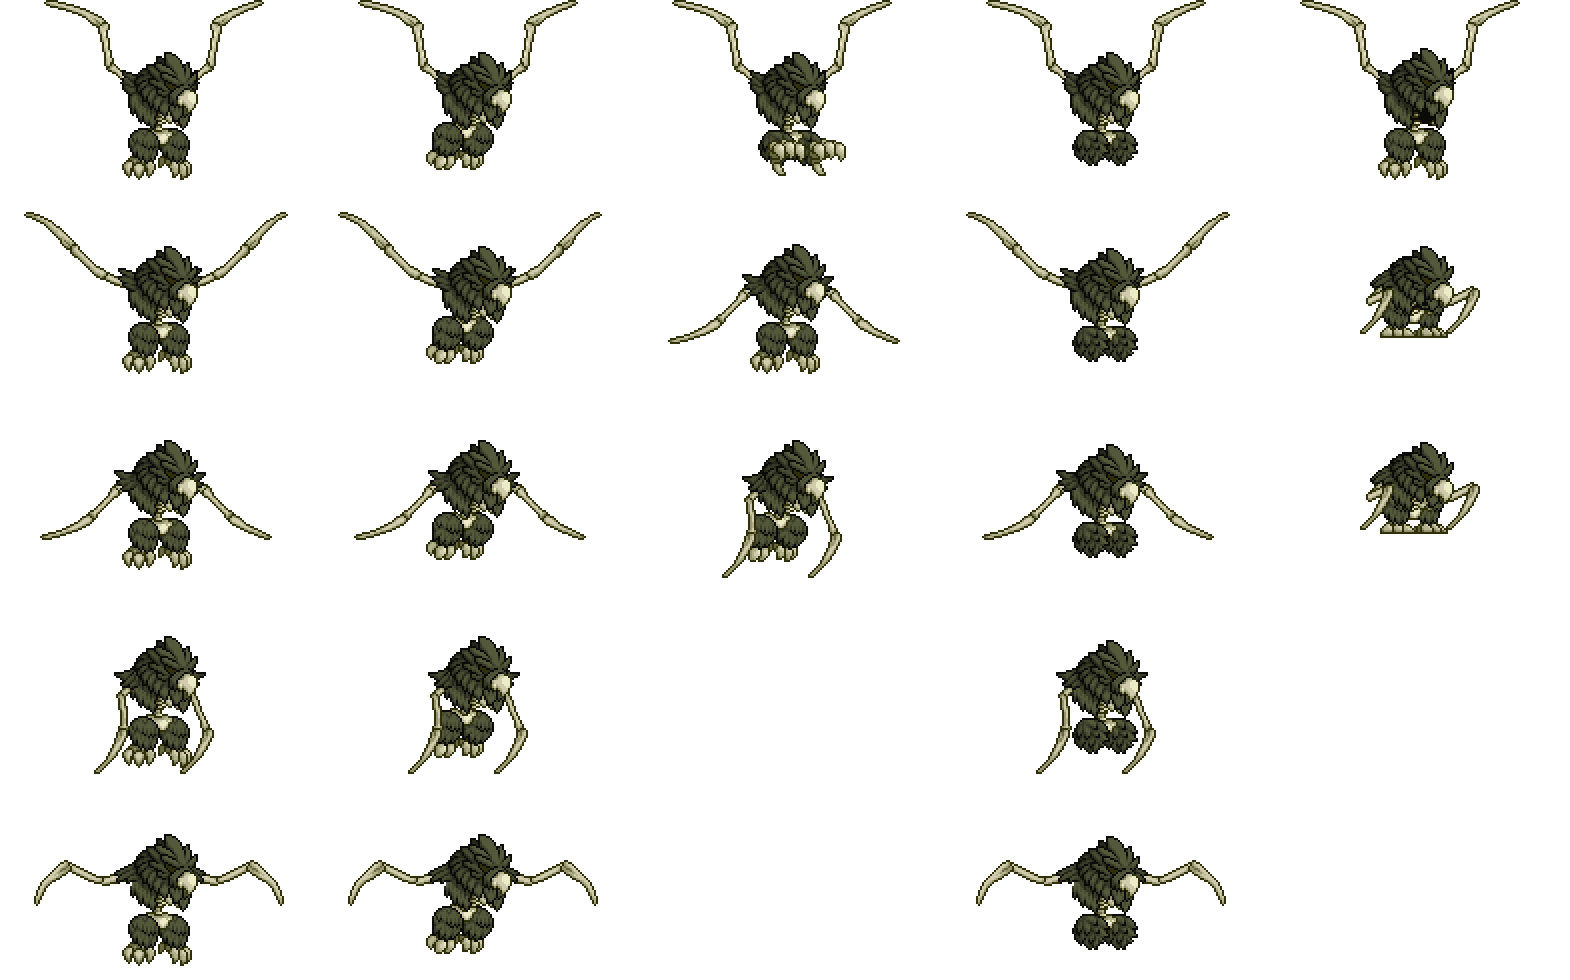
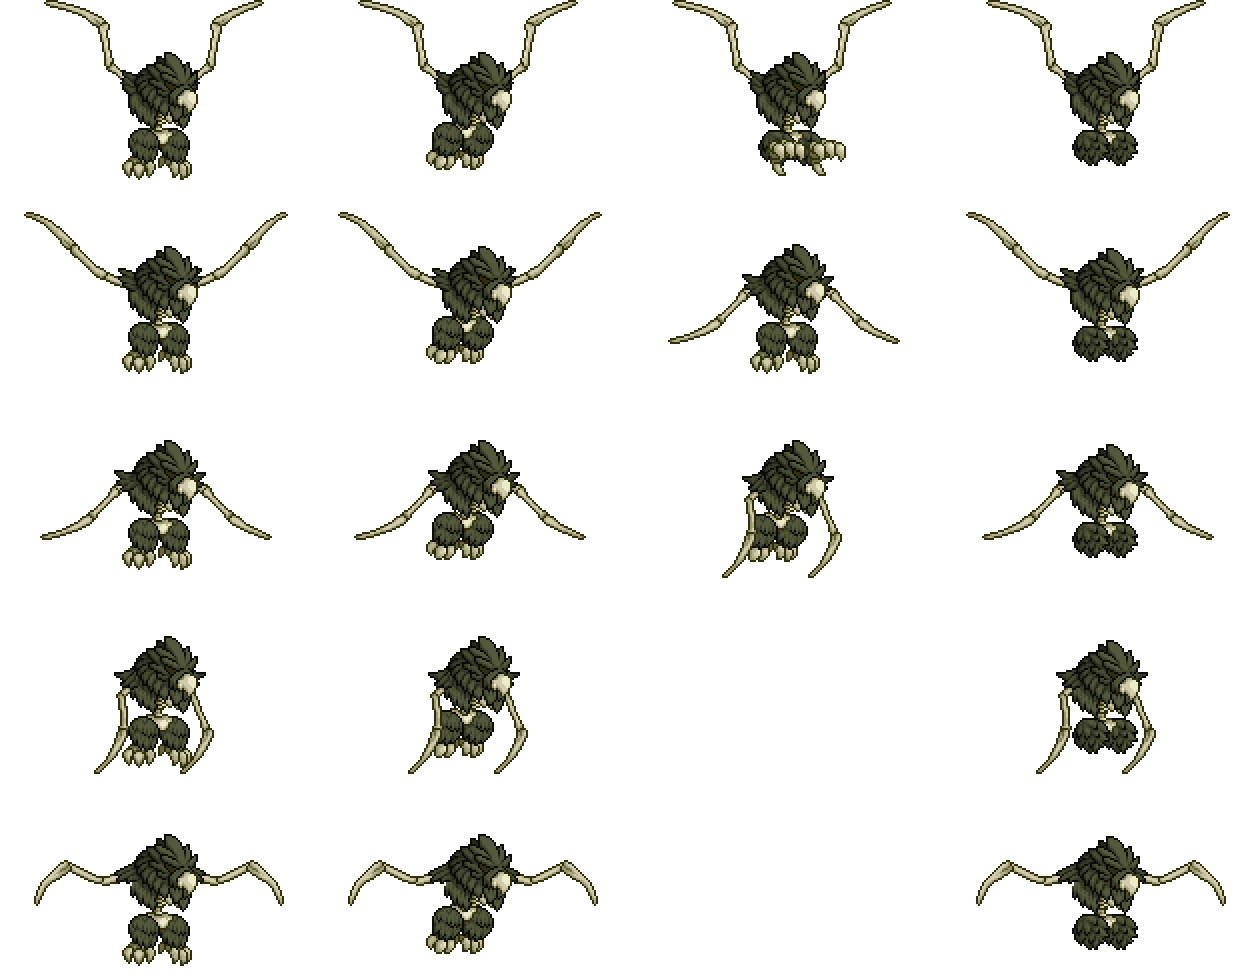
update palette, remove "landing" frames

diff --git a/NPCs/DungeonBird/Harvester.cs b/NPCs/DungeonBird/Harvester.cs
@@ -22,7 +22,6 @@ using Terraria.ModLoader.IO;
 using AssortedCrazyThings.Projectiles.NPCs.Bosses;
 using Terraria.GameContent;
 using System.Collections.Generic;
-using AssortedCrazyThings.Dusts;
 
 namespace AssortedCrazyThings.NPCs.DungeonBird
 {
@@ -33,7 +32,7 @@ namespace AssortedCrazyThings.NPCs.DungeonBird
         public static readonly string name = "Soul Harvester";
         public static readonly string deathMessage = "The Dungeon Souls have been freed!"; //on death
         public static Color deathColor = new Color(35, 200, 254);
-        public const int FrameCountHorizontal = 5;
+        public const int FrameCountHorizontal = 4;
         public const int FrameCountVertical = 5;
         public const int FrameWidth = 314; //Old sprite 470
         public const int FrameHeight = 196; //Old sprite 254
@@ -233,7 +232,7 @@ namespace AssortedCrazyThings.NPCs.DungeonBird
                 return;
             }
 
-            if (AI_Animation != Animation_Swoop && AI_Animation != Animation_Weakened)
+            if (AI_Animation != Animation_Swoop)
             {
                 NPC.LoopAnimation(FrameHeight, 6, endFrame: lastFrame);
             }
@@ -415,7 +414,7 @@ namespace AssortedCrazyThings.NPCs.DungeonBird
                     }
 
                     SetState(State_Weakened);
-                    AI_Animation = Animation_Weakened;
+                    //AI_Animation = Animation_Weakened;
                     SetFrame(0);
 
                     for (int i = 0; i < NPC.maxBuffs; i++)
@@ -545,7 +544,7 @@ namespace AssortedCrazyThings.NPCs.DungeonBird
             return animation switch
             {
                 Animation_Swoop => 2,
-                Animation_Weakened => 2,
+                //Animation_Weakened => 2,
                 _ => FrameCountVertical - 1
             };
         }
@@ -557,27 +556,26 @@ namespace AssortedCrazyThings.NPCs.DungeonBird
         public const float State_Weakened = 4f; //Can enter from any state, special conditions (ontop of basic life <= 1)
         public const float State_Weakened_SeekSpace = 5f;
 
-        public const int Swoop_post_time = 90;
+        public const int Swoop_Post_Time = 90;
 
         //Substates:
-        public const int Swoop_seekStart = 0;//Second half the "U"
-        public const int Swoop_swooping = 1; //First half the "U"
+        public const int Swoop_SeekStart = 0;//Second half the "U"
+        public const int Swoop_Swooping = 1; //First half the "U"
 
-        public const int Swooping_distance = 500;
-        public const int Swooping_height = 280;
+        public const int Swooping_Distance = 500;
+        public const int Swooping_Height = 280;
         public const int Swoop_Count = 3;
         public const int Revive_Count = 3;
         public const int SpawnedSouls_Count = 15;
         //TODO needs dynamic method based on revive count
 
-        public const int Bombing_distance = Swooping_distance + 300;
-        public const int Bombing_height = 200;
+        public const int Bombing_Distance = Swooping_Distance + 300;
+        public const int Bombing_Height = 200;
 
         public const int Animation_NoHorizontal = 0;
         public const int Animation_Flight = 1;
         public const int Animation_Swoop = 2;
         public const int Animation_Bombing = 3;
-        public const int Animation_Weakened = 4;
 
         public ref float AI_State => ref NPC.ai[0];
 
@@ -628,7 +626,7 @@ namespace AssortedCrazyThings.NPCs.DungeonBird
 
         public bool StateToDisplayMeleeIndicator => AI_State == State_Swoop && AI_Timer < 0 || VulnerableToMelee;
 
-        public bool VulnerableToMelee => AI_State == State_Swoop && AI_SubState == Swoop_swooping;
+        public bool VulnerableToMelee => AI_State == State_Swoop && AI_SubState == Swoop_Swooping;
 
         //Not synced, should be clientside
         public bool displayMeleeIndicator = false;
@@ -753,7 +751,7 @@ namespace AssortedCrazyThings.NPCs.DungeonBird
                 HarvesterTalon talon = talons[i];
                 if (talon.AI_State == HarvesterTalon.State_Punching)
                 {
-                    if (talon.NPC.Top.Y > NPC.Center.Y + Bombing_height)
+                    if (talon.NPC.Top.Y > NPC.Center.Y + Bombing_Height)
                     {
                         //Main.NewText("manually retract talon " + i);
                         talon.AI_State = HarvesterTalon.State_Seek_Retract;
@@ -933,7 +931,7 @@ namespace AssortedCrazyThings.NPCs.DungeonBird
                 int count = Math.Abs(AI_Counter);
                 bool keepSwooping = count <= Swoop_Count;
 
-                if (AI_SubState == Swoop_seekStart)
+                if (AI_SubState == Swoop_SeekStart)
                 {
                     float speed = 10;
                     const float minInertia = 6;
@@ -942,7 +940,7 @@ namespace AssortedCrazyThings.NPCs.DungeonBird
                     if (AI_Counter != 0 && AI_Animation == Animation_Swoop)
                     {
                         float lifeRatioClamped = Utils.Remap(lifeRatio, 0, 1, 0.4f, 1);
-                        float swoopPostTime = Swoop_post_time * lifeRatioClamped;
+                        float swoopPostTime = Swoop_Post_Time * lifeRatioClamped;
 
                         //This means a swoop has already taken place, and the "post-swoop" frame should be displayed for a while
                         AI_Timer++;
@@ -966,9 +964,9 @@ namespace AssortedCrazyThings.NPCs.DungeonBird
                     Vector2 toPlayer = target.DirectionFrom(NPC.Bottom); //Talons should hit center of player
                     bool leftOfPlayer = toPlayer.X > 0;
 
-                    int targetY = keepSwooping ? Swooping_height : Bombing_height;
+                    int targetY = keepSwooping ? Swooping_Height : Bombing_Height;
 
-                    Vector2 start = new Vector2(Swooping_distance, -targetY);
+                    Vector2 start = new Vector2(Swooping_Distance, -targetY);
                     if (AI_Counter == 0)
                     {
                         //First swoop
@@ -1033,7 +1031,7 @@ namespace AssortedCrazyThings.NPCs.DungeonBird
                     {
                         AI_Timer--;
                         float lifeRatioClamped = Utils.Remap(lifeRatio, 0, 1, 0.4f, 1);
-                        float swoopPostTime = Swoop_post_time * lifeRatioClamped;
+                        float swoopPostTime = Swoop_Post_Time * lifeRatioClamped;
                         if (AI_Timer < -swoopPostTime)
                         {
                             AI_Timer = 0;
@@ -1041,7 +1039,7 @@ namespace AssortedCrazyThings.NPCs.DungeonBird
                             if (keepSwooping)
                             {
                                 //This does keep whatever animation was previously happening, but changes it on swoop
-                                SetState(subState: Swoop_swooping);
+                                SetState(subState: Swoop_Swooping);
                                 NPC.direction = leftOfPlayer.ToDirectionInt();
                                 AI_Animation = Animation_Swoop;
                                 SetFrame(0);
@@ -1056,7 +1054,7 @@ namespace AssortedCrazyThings.NPCs.DungeonBird
                         }
                     }
                 }
-                else if (AI_SubState == Swoop_swooping)
+                else if (AI_SubState == Swoop_Swooping)
                 {
                     if (AI_Timer == 0)
                     {
@@ -1072,7 +1070,7 @@ namespace AssortedCrazyThings.NPCs.DungeonBird
                     //Go down towards straight line smoothly, fast at first (to create half of "u" shape)
                     //Number from 0 (start) to 1 (end, reached swoop location)
 
-                    float xProgress = AI_Timer / Swooping_distance;
+                    float xProgress = AI_Timer / Swooping_Distance;
                     float yProgress = EaseOutLinear(xProgress, 1f);
 
                     //Used on VELOCITY, meaning this is a parabola position wise
@@ -1094,7 +1092,7 @@ namespace AssortedCrazyThings.NPCs.DungeonBird
 
                     if (xProgress >= 0.95f)
                     {
-                        //Abount to hit player/finish swoop down
+                        //About to hit player/finish swoop down
                         SetFrame(1);
                     }
 
@@ -1112,7 +1110,7 @@ namespace AssortedCrazyThings.NPCs.DungeonBird
 
                         if (keepSwooping)
                         {
-                            SetState(subState: Swoop_seekStart);
+                            SetState(subState: Swoop_SeekStart);
                         }
                         else
                         {
@@ -1153,7 +1151,7 @@ namespace AssortedCrazyThings.NPCs.DungeonBird
                 //Keep constant speed towards direction (not player)
                 float xDir = NPC.direction * xSpeed;
 
-                float xProgress = AI_Timer / Bombing_distance;
+                float xProgress = AI_Timer / Bombing_Distance;
 
                 //Adjust Y level to keep same level to targeted player if not reached player yet
                 Vector2 targetCenter = target.Center;
@@ -1161,7 +1159,7 @@ namespace AssortedCrazyThings.NPCs.DungeonBird
                 float yDir = NPC.velocity.Y;
                 if (NPC.direction * toTarget.X > 0)
                 {
-                    targetCenter += new Vector2(0, -Bombing_height);
+                    targetCenter += new Vector2(0, -Bombing_Height);
                     toTarget = targetCenter - NPC.Center;
                     int ySpeed = 20;
                     if (toTarget.LengthSquared() > ySpeed * ySpeed)
@@ -1172,7 +1170,7 @@ namespace AssortedCrazyThings.NPCs.DungeonBird
                     yDir = (NPC.velocity.Y * (inertia - 1) + toTarget.Y) / inertia;
                 }
 
-                if (toTarget.Y > Bombing_height)
+                if (toTarget.Y > Bombing_Height)
                 {
                     //player below targeted bombing line, move directly with player to catch up
                     //yDir *= 1;
@@ -1199,6 +1197,7 @@ namespace AssortedCrazyThings.NPCs.DungeonBird
             }
             else if (AI_State == State_Weakened)
             {
+                //TODO REWORK THIS
                 NPC.velocity *= 0.98f;
 
                 float len = NPC.velocity.Length();
@@ -1397,7 +1396,7 @@ namespace AssortedCrazyThings.NPCs.DungeonBird
 
         private void HandleMeleeIndicator(Player target)
         {
-            return;
+            return; //TODO disabled for now
 
             if (Main.myPlayer == target.whoAmI)
             {
